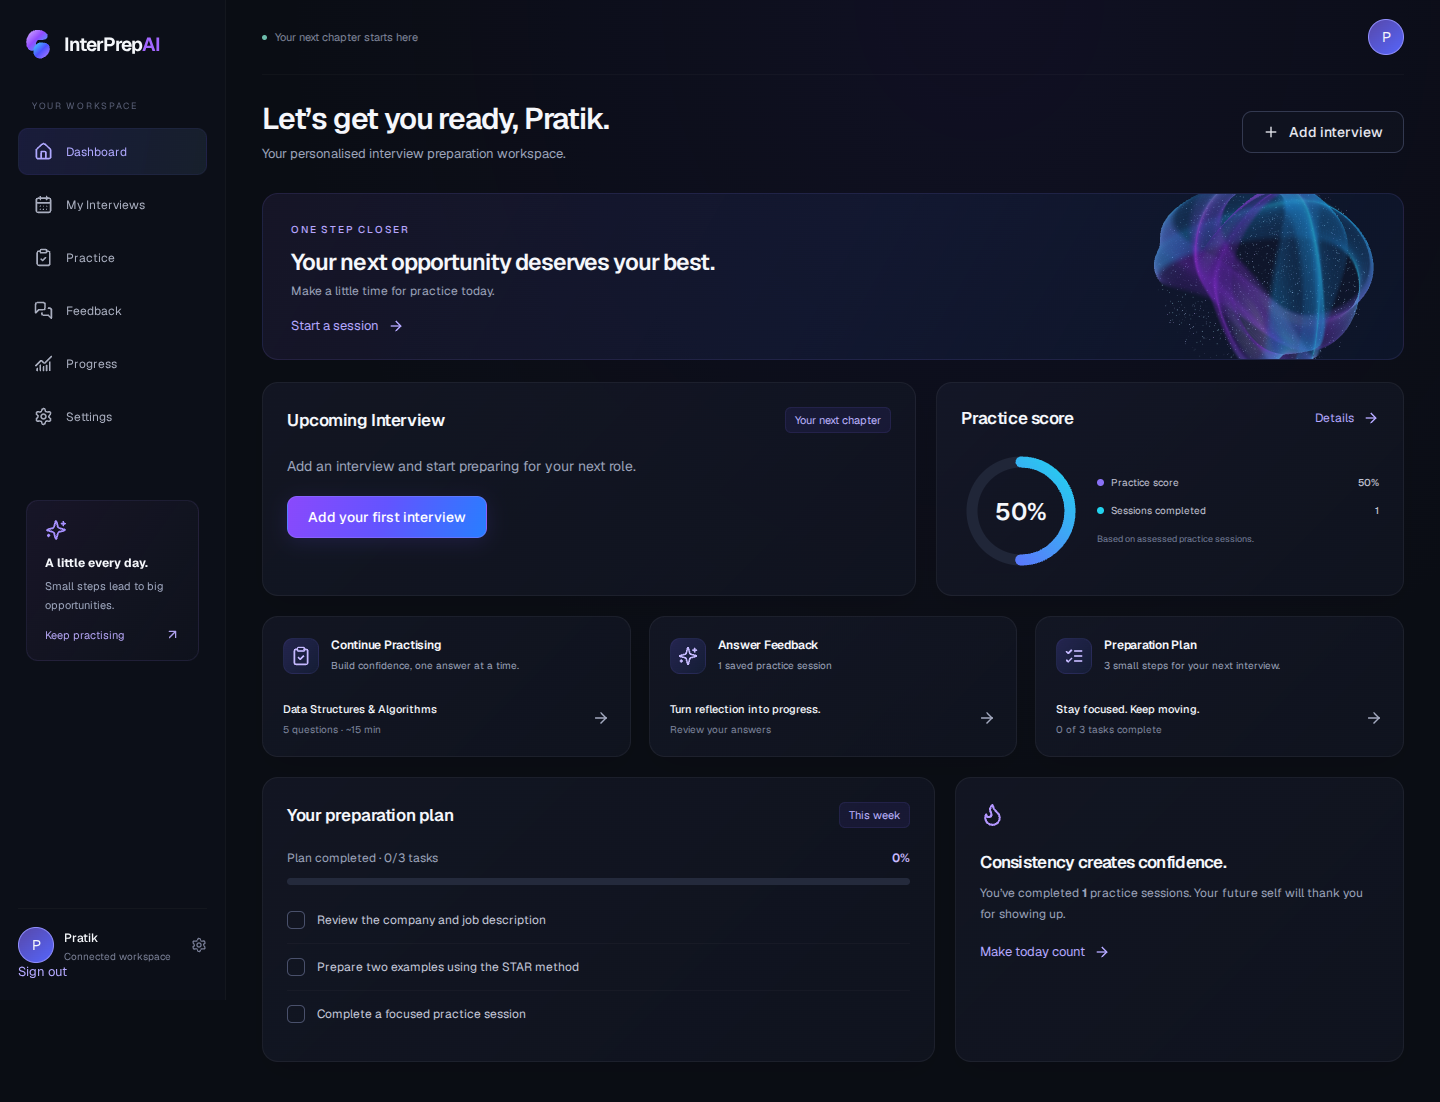
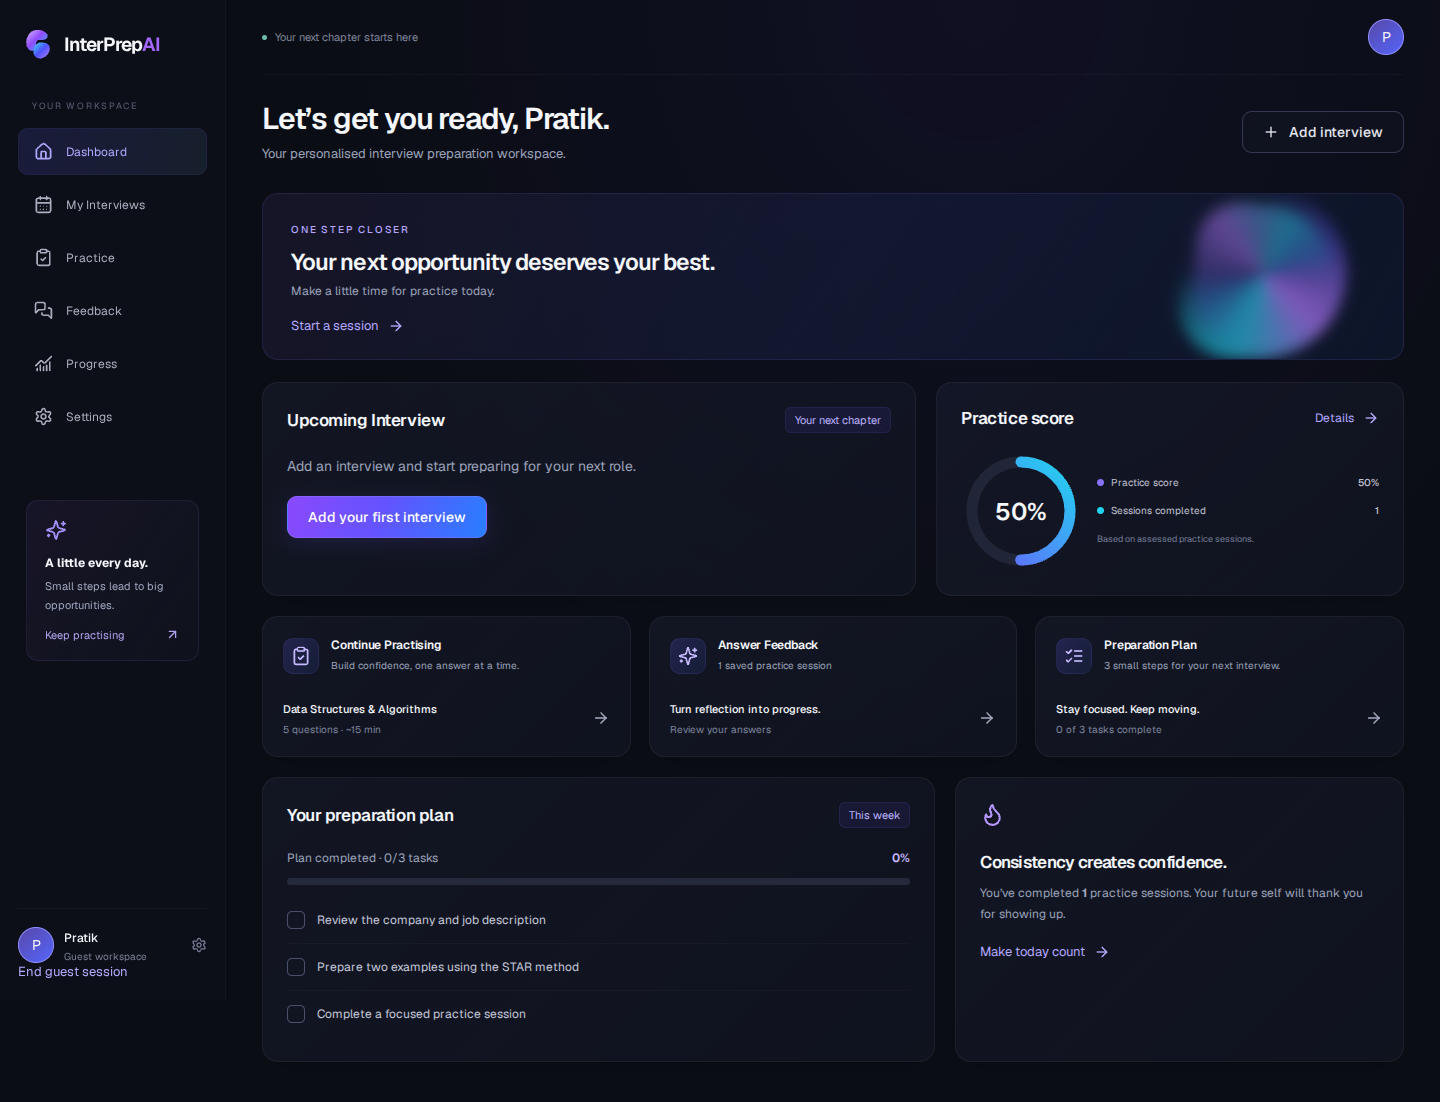
Added 'Continue as guest' to both sign-in and reg. Guests can access every feature without entering credentials.

Changed region(s): [[0.7812, 0.1543, 0.9688, 0.3394], [0.0312, 0.8639, 0.0938, 0.8947]]

diff --git a/src/useBackend.ts b/src/useBackend.ts
@@ -12,15 +12,19 @@ export function useBackend() {
     [status, setStatus] = useState<"loading" | "ready" | "auth" | "error">(
       "loading",
     ),
-    [error, setError] = useState("");
+    [error, setError] = useState(""),
+    [isGuest, setIsGuest] = useState(false);
   const current = useRef(workspace),
     queue = useRef<Promise<unknown>>(Promise.resolve());
   async function load() {
     try {
-      const d = await api<Workspace & { sessions: Session[] }>("/workspace");
+      const d = await api<
+        Workspace & { sessions: Session[]; isGuest: boolean }
+      >("/workspace");
       current.current = d;
       setWorkspace(d);
       setSessions(d.sessions);
+      setIsGuest(d.isGuest);
       setStatus("ready");
       setError("");
     } catch (e) {
@@ -76,6 +80,7 @@ export function useBackend() {
       setWorkspace(empty);
       setSessions([]);
       setStatus("auth");
+      setIsGuest(false);
       setError("");
     } catch (e) {
       setError((e as Error).message);
@@ -83,6 +88,7 @@ export function useBackend() {
   }
   return {
     workspace,
+    isGuest,
     current,
     sessions,
     setSessions,

diff --git a/src/pages/Settings.tsx b/src/pages/Settings.tsx
@@ -4,6 +4,7 @@ import { Panel, PageTitle } from "../components/UI";
 import type { Profile, Interview, Session } from "../types";
 export default function Settings({
   profile,
+  isGuest,
   save,
   interviews,
   sessions,
@@ -11,6 +12,7 @@ export default function Settings({
   reset,
 }: {
   profile: Profile;
+  isGuest: boolean;
   save: (p: Profile) => Promise<boolean>;
   interviews: Interview[];
   sessions: Session[];
@@ -103,7 +105,9 @@ export default function Settings({
           <ShieldCheck size={20} />
         </div>
         <p>
-          Your workspace is saved to the backend database under your account.
+          {isGuest
+            ? "You are using a guest workspace. It is available through this browser for up to 7 days. Ending your guest session or clearing cookies removes access to this data. Export anything you want to keep before leaving."
+            : "Your workspace is saved to the backend database under your account."}
           Requesting a review sends that answer and its question rubric to
           OpenAI. Personal stories are coached, not independently verified.
         </p>

diff --git a/src/pages/Auth.tsx b/src/pages/Auth.tsx
@@ -123,6 +123,29 @@ export default function Auth({
           </button>
         </form>
         <button
+          type="button"
+          className="btn secondary guest-entry"
+          disabled={busy}
+          onClick={async () => {
+            setBusy(true);
+            setError("");
+            try {
+              await api("/auth/guest", "POST", {});
+              await onSuccess();
+            } catch (e) {
+              setError((e as Error).message);
+            } finally {
+              setBusy(false);
+            }
+          }}
+        >
+          Continue as guest
+        </button>
+        <p className="muted guest-help">
+          Access all features without an account. Guest progress is available in
+          this browser for up to 7 days, unless you sign out or clear cookies.
+        </p>
+        <button
           className="text-link"
           onClick={() => {
             setRegister(!register);

diff --git a/src/components/Layout.tsx b/src/components/Layout.tsx
@@ -23,11 +23,13 @@ const links = [
 ];
 export default function Layout({
   name,
+  isGuest,
   storageError,
   retry,
   logout,
 }: {
   name: string;
+  isGuest: boolean;
   storageError: string;
   retry: () => void;
   logout: () => void;
@@ -78,12 +80,12 @@ export default function Layout({
           </span>
           <div>
             <strong>{name || "Your profile"}</strong>
-            <small>Connected workspace</small>
+            <small>{isGuest ? "Guest workspace" : "Connected workspace"}</small>
           </div>
           <Settings size={16} />
         </Link>
         <button className="text-link" onClick={logout}>
-          Sign out
+          {isGuest ? "End guest session" : "Sign out"}
         </button>
       </aside>
       <main className="workspace-main">

diff --git a/src/App.tsx b/src/App.tsx
@@ -59,6 +59,7 @@ export default function App() {
       <Route
         element={
           <Layout
+            isGuest={backend.isGuest}
             name={profile.name}
             storageError={backend.error}
             retry={() => void backend.retry()}
@@ -134,6 +135,7 @@ export default function App() {
           path="/settings"
           element={
             <Settings
+              isGuest={backend.isGuest}
               profile={profile}
               save={(profile) =>
                 backend.update({ ...backend.current.current, profile })

diff --git a/src/pages/Landing.tsx b/src/pages/Landing.tsx
@@ -160,7 +160,7 @@ export default function Landing() {
             <div>
               <div className="section-label">START WHERE YOU ARE</div>
               <h2>Your preparation, all in one place.</h2>
-              <p>Create an account to save your practice and progress.</p>
+              <p>Try all features as a guest, or create an account to keep your progress across devices.</p>
               <div className="pricing-points">
                 <span>
                   <Check size={16} /> Interview planner

diff --git a/src/pages/Practice.tsx b/src/pages/Practice.tsx
@@ -145,7 +145,7 @@ export default function Practice({ save }: { save: (s: Session) => void }) {
           {topics.map((t) => (
             <Panel key={t.name}>
               <h2>{t.name}</h2>
-              <p>5 questions · self-paced · saved to your account</p>
+              <p>5 questions · self-paced · saved to your workspace</p>
               <button
                 className="btn primary"
                 disabled={!!busy}

diff --git a/src/pages/Feedback.tsx b/src/pages/Feedback.tsx
@@ -41,7 +41,7 @@ export default function Feedback({ sessions }: { sessions: Session[] }) {
             <div>
               <h2>{s.topic}</h2>
               <p>
-                {s.answers.length} answers assessed and saved to your account.
+                {s.answers.length} answers assessed and saved to your workspace.
               </p>
               <Link className="text-link" to="/practice">
                 Practise again →

diff --git a/src/styles.css b/src/styles.css
@@ -1961,3 +1961,6 @@ select:focus {
 .rubric-row blockquote { margin: 12px 0; padding-left: 16px; border-left: 3px solid #8e6cff; color: #bcb8d0; }
 .discard-session { margin-top: 32px; color: #aaaec2; }
 .form-actions { flex-wrap: wrap; }
+
+.guest-entry { width: 100%; margin-top: 4px; }
+.guest-help { font-size: 13px; line-height: 1.6; margin: 12px 0 22px; }

diff --git a/docs/BACKEND.md b/docs/BACKEND.md
@@ -22,6 +22,7 @@ All mutation requests require `Content-Type: application/json` and `Origin` matc
 | --- | --- | --- |
 | GET | /api/health | Availability and whether AI is configured |
 | POST | /api/auth/register | name, email, password, confirmPassword, optional accessCode |
+| POST | /api/auth/guest | Create or reuse an isolated guest workspace |
 | POST | /api/auth/login | email and password |
 | POST | /api/auth/logout | Revoke current session |
 | GET/PUT | /api/workspace | Read state / save profile, interviews, tasks |
@@ -58,7 +59,7 @@ A Dockerfile and compose file are provided as a packaging option. Set production
 
 Stop the server cleanly and back up the entire directory containing the SQLite file, including any WAL/SHM files. Restore to the same configured DATABASE_PATH and start the server. Keep backups private: answers and profile data are not encrypted at rest by this app. Export data in Settings provides a per-account JSON download, but there is no import endpoint yet.
 
-Question seeds upsert on startup. Schema version 1 is recorded using PRAGMA user_version. Future schema changes require explicit migrations and backup testing.
+Question seeds upsert on startup. Schema version 2 is recorded using PRAGMA user_version. Future schema changes require explicit migrations and backup testing.
 
 ## Known limits
 
@@ -78,3 +79,10 @@ Registration requires name, password and confirmPassword. Both the form and API 
 The supplied list of 20 common passwords is checked first, ignoring case and outer whitespace, so these inputs receive exactly `Password is too common`. This is an exact blocklist, not a comprehensive dictionary or a check for every possible variation. Name matching ignores case and punctuation and checks the full name and name parts of two or more characters; individual initials in multi-part names are ignored. The supplied registration name becomes the initial profile name. This check uses the user's supplied name, not independently verified identity.
 
 New registration rules are not applied during sign-in, so existing accounts keep working. Profile name edits do not retroactively validate an existing password. No schema migration or password reset is required.
+
+
+## Guest identities
+
+`POST /api/auth/guest` accepts an empty JSON object, shares the existing authentication rate limiter, and requires the configured request origin. It is intentionally available without the registration invitation code. Each guest receives a unique internal user and the same secure cookie and ownership checks as a registered user. Guest users cannot sign in through the email/password endpoint. Repeated entry with a valid session reuses that identity; it does not replace a signed-in account.
+
+The additive `guest_users` table records guest expiry and is created automatically for existing databases; no existing account data is rewritten. Expired guest users, auth sessions and practice sessions are deleted on subsequent guest creation, skipping active assessments. The guest marker is independent of the editable profile name. Per-user and global AI quotas apply to guests, so publicly enabling this app also makes the existing AI quota available to anonymous visitors. Cookie clearing can create a new guest identity, but cannot bypass the global quota or IP request limiter. Guest data is not merged into registered accounts.

diff --git a/docs/VERIFICATION.md b/docs/VERIFICATION.md
@@ -3,7 +3,7 @@
 ## Backend update
 
 - TypeScript and Vite production build pass.
-- Nine automated backend/integration test groups pass with no paid API calls.
+- Eleven automated backend/integration test groups pass with no paid API calls.
 - Coverage includes registration, duplicate account rejection, password hashing, login/logout, owner isolation, cross-origin mutation rejection, input bounds, private rubric filtering, saved drafts, server-computed scores, cached assessment reuse, invalidation after editing, idempotent completion, reset, missing key, provider failure, quota enforcement, database reopen and concurrent assessment locks.
 - Provider adapter tests verify structured requests and reject malformed, incomplete or refused responses and fabricated answer quotations.
 - The AI provider is stubbed in automated integration checks. These tests do not establish semantic grading accuracy.
@@ -23,3 +23,12 @@ The Three.js ribbon/particle scene is retained. Previous rendering checks covere
 - API checks reject bypassed client validation; existing passwords remain valid for sign-in.
 - Chromium form checks pass for all validation messages, mismatched confirmation, seven-character registration and subsequent sign-in.
 - Registration screenshot visually inspected.
+
+
+## Guest access update
+
+- Guest entry requires no credentials and provides an isolated server workspace.
+- Backend tests cover all workspace capabilities, guest ownership isolation, repeated-entry reuse, configured registration-code independence, assessment quotas, sign-out and expired guest cleanup.
+- Existing registered sessions remain registered when the guest entry endpoint is called.
+- Chromium checks pass for guest entry, saved draft reload, five reviews and completion, feedback reload, profile updates, interviews, progress, dashboard, mobile layout and exit. The AI provider is stubbed in these checks.
+- Guest entry screenshot visually inspected; production build passes.
